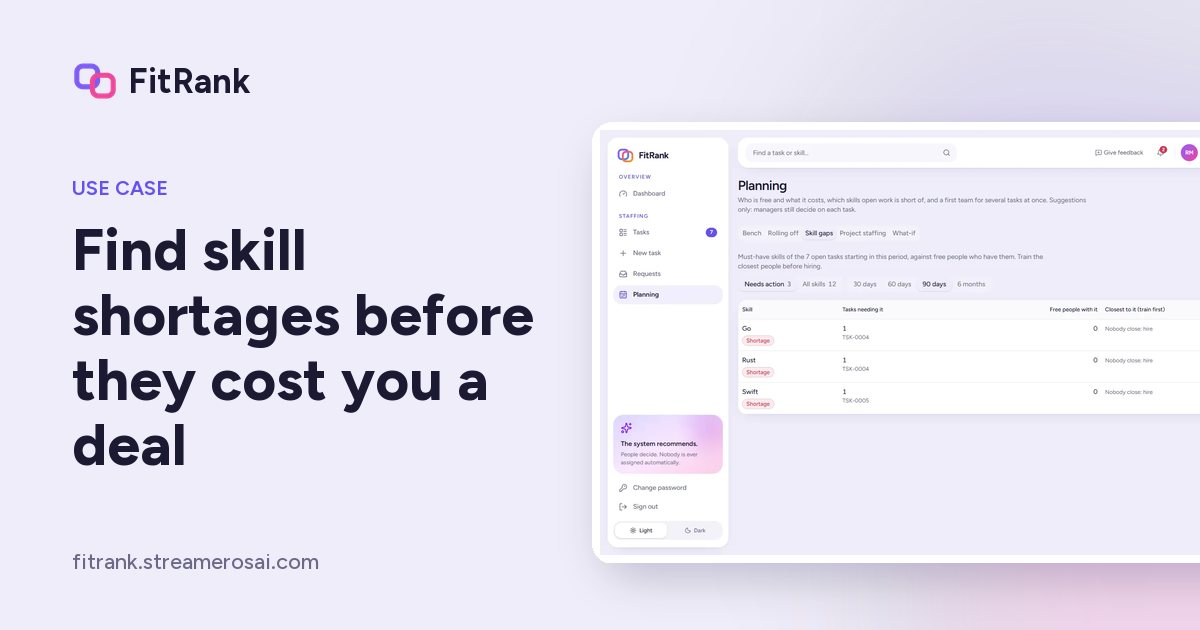
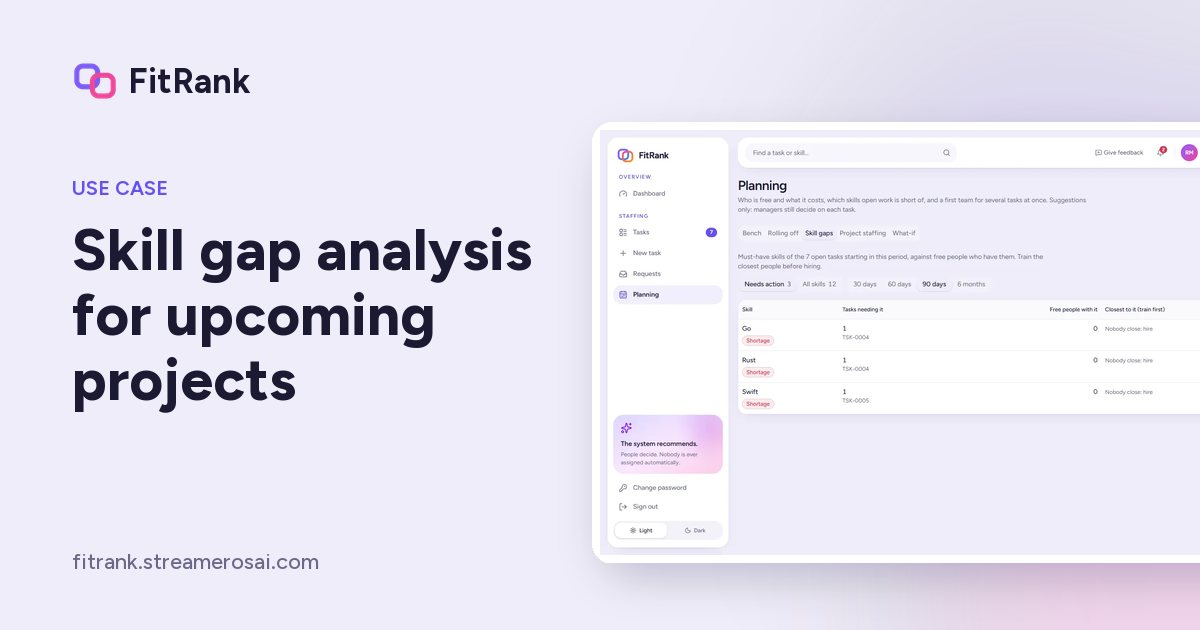
feat(use-cases): deep articles for staff-open-tasks, bench-management and skill-gap-planning

Changed region(s): [[0.0617, 0.3619, 0.4625, 0.754]]

diff --git a/src/lib/usecase-articles-a.ts b/src/lib/usecase-articles-a.ts
@@ -1,0 +1,176 @@
+import type { Block } from "@/lib/blog";
+
+export const ARTICLES_A: Record<string, Block[]> = {
+  "staff-open-tasks": [
+    { type: "tldr", text: "To find the right person for an open task, write down what the task really needs (skills, level, dates, place), remove everyone who cannot take it for a plain reason such as leave or timing, then compare the rest on facts you can count before you rely on anyone's memory. FitRank does those three steps in code, adds a probability for each judgement, and leaves the choice with the manager." },
+    { type: "h2", text: "Who has this problem, and why it keeps happening" },
+    { type: "p", text: "Any services team that staffs people onto client work meets it every week: a project needs a data engineer from the first of next month, and someone has to decide who. In a team of forty that decision is made from memory. In a team of four hundred it is made from a spreadsheet that was right the last time anyone updated it." },
+    { type: "p", text: "The failure is rarely a bad decision. It is a missing candidate. The person who would have been ideal was on a project that ended last week, or listed a skill under a different name, or sits in another business unit, and the manager never thought of them. The second failure is that nobody can explain the choice later. When a client asks why one person was proposed and not another, the answer is 'it seemed right'." },
+    { type: "h2", text: "An illustrative example: one task, five people" },
+    { type: "p", text: "This example is made up to show the method. The people, dates and numbers are invented and belong to no customer." },
+    { type: "p", text: "A manager needs a data engineer for a banking client, with Azure Data Factory as the main must-have skill, starting on 3 November for about four months. Five people come to mind quickly. Two of them are on a project that ends on 14 November, so they are not free in time. One is on approved leave for the first fortnight. One has the skill but is based in a location the client does not allow for this work. That leaves one person, and the manager is about to pick her by default." },
+    { type: "p", text: "Done properly, the first step is to take those four people off the list with a reason written next to each name, so that nobody is dropped by accident. The second step is to look at everyone else the manager did not think of. Three more people are free in time and have some of the skills. Now there are four real options, and the question changes from 'who do I know' to 'who fits best, and how sure are we'." },
+    { type: "h2", text: "How to do it by hand" },
+    { type: "ol", items: [
+      "Write the task as fixed fields, not a paragraph: role, must-have skills, nice-to-have skills, level, start date, length, allocation and location limits. If you cannot fill a field, that is the question to ask the requester before you search.",
+      "Cut the pool with rules that have yes or no answers: free from the start date, not on leave, allowed in the location, inside the cost band. Keep a note of who was cut and why.",
+      "For the people left, count facts. How many of the must-haves do they cover? How many years on the main skill, and when did they last use it? Have they worked in this client's domain? Counting beats impressions because two managers will count the same way.",
+      "Only then use judgement: is this person at the right level, and what is the risk that the delivery goes badly? Write the reason in a sentence.",
+      "Make the call and record it with its reason, even if the reason is short. The record is what lets you improve next time.",
+    ] },
+    { type: "h2", text: "How FitRank handles each step" },
+    { type: "p", text: "FitRank follows the same order, and it keeps the parts that can be calculated separate from the parts that need judgement." },
+    { type: "ul", items: [
+      "Intake. You type the task the way you would say it and FitRank fills in the fields. You confirm them in a preview before the task exists. See [plain-language task intake](/features/task-intake/).",
+      "Rules in code. Availability, leave, location, working-hours overlap, cost band and clearance are checked by code. A person who fails is not given a low score; they go to the excluded list with the rule they failed, so the manager can see who was left out and why.",
+      "Facts in code. Coverage of must-have and nice-to-have skills, level gap, experience against the minimum, domain projects and skill recency are calculated exactly, and a person's resume-backed skills are marked apart from claimed ones.",
+      "Five typed judgements. For each remaining person, the in-house model answers skill match, level fit, domain relevance, delivery risk and overall fit. Each answer is a probability for every option from a fixed list, never free text.",
+      "Checks and bands. Code compares the answers with the facts. A contradiction, thin data or an unsure model caps the person at Review. Your own cut-offs place everyone in Shortlist, Review or Hidden.",
+      "A person decides. The manager accepts or rejects with a reason (skill gap, level, domain or timing). Nothing is ever assigned automatically. See [explained matching and shortlists](/features/explainable-matching/).",
+    ] },
+    { type: "p", text: "A run scores everyone in a median of 0.94 seconds on an ordinary laptop CPU in the team's own benchmark, and it happens in the background, so the manager can carry on with something else while it runs." },
+    { type: "h2", text: "A checklist you can use without any software" },
+    { type: "ul", items: [
+      "Is every field of the task written down and agreed with whoever asked for it?",
+      "Did you list who was ruled out and the one-line reason for each?",
+      "Did you look beyond the people you already know, including people finishing a project in the next month?",
+      "Are your comparisons based on counts (skills covered, years, last used) rather than on who you trust?",
+      "Did you check how recent the main skill is? A skill last used three years ago is not the same as one used last quarter.",
+      "Did you write down why you chose the person, in a sentence, before telling anyone?",
+      "Did you ask yourself what would make this pick fail, and who is the second choice?",
+    ] },
+    { type: "h2", text: "Common mistakes" },
+    { type: "ul", items: [
+      "Starting from the person you know and working backwards to justify them.",
+      "Treating a skill list as proof. A profile that has not been touched in a year says what someone could do then, not now.",
+      "Mixing planning reasons with fit. 'He was free' is why someone was available, not why they were right. Keep the two apart or the record teaches you nothing.",
+      "Dropping people silently. If an exclusion is not written down, nobody can challenge it, and good candidates stay missing.",
+      "Choosing on the score alone. A probability is a prompt to look, not a verdict. A person at 57 per cent is a person to check, not to ignore.",
+    ] },
+    { type: "h2", text: "When FitRank is not the right tool" },
+    { type: "p", text: "It needs profiles to work from. If your people data is mostly empty or years old, the ranking will be only as good as that data, and the first job is cleaning it, which [employee records and CSV import](/features/people-data/) help with. It is built for matching named people to tasks, so it is not a shift rota: for who works which hour, the free [schedule generator](/tools/schedule-generator/) is a better fit, and [staffing versus scheduling](/blog/staffing-vs-scheduling/) explains the difference." },
+    { type: "p", text: "It also will not take the decision from you, by design. If you want a tool that assigns people automatically without anyone approving, FitRank is the wrong choice. And if you staff three tasks a year, a spreadsheet and the checklist above are enough." },
+    { type: "h2", text: "Questions people ask" },
+    { type: "faq", items: [
+      { q: "How is this different from searching a skills spreadsheet?", a: "A filter returns everyone who has a keyword. FitRank first removes people who cannot take the task for a recorded reason, then compares the rest on counted facts and five probability answers, and tells you who was left out and why." },
+      { q: "Can the model put someone on the shortlist who is on leave?", a: "No. Rules run first and in code. Only people who pass every rule are scored, and the model cannot override a rule." },
+      { q: "What if the model is unsure about someone?", a: "They are capped at Review rather than Shortlist, so a person looks at them. Unsure answers are never turned into confident ones." },
+      { q: "Does FitRank learn from my team's choices?", a: "Accept and reject decisions are recorded with a reason and used as training examples. A new scorer is trained overnight but only used after an admin switches it on. See [decisions, outcomes and learning](/features/learning-loop/)." },
+      { q: "What if nobody inside fits?", a: "Send a hiring request to HR from the task. The [hiring pipeline use case](/use-cases/hr-candidate-pipeline/) shows how that hand-off works." },
+    ] },
+  ],
+
+  "bench-management": [
+    { type: "tldr", text: "To reduce bench time, review the bench every week with a fixed window (free now, in 30, 60 and 90 days), price each idle week from your rate card, and pair every person with the open work they could take before they are idle. FitRank's bench view builds that list for you; the decision to hold, move or train someone stays with a manager." },
+    { type: "h2", text: "What bench time is, and who pays for it" },
+    { type: "p", text: "In an IT services company the bench is the group of people who are employed but not currently billed to a client. Some bench is healthy: people between projects, people on a planned course, people held for a deal that is about to start. The problem is the unplanned part, the weeks someone sits idle because nobody connected them to the next piece of work in time." },
+    { type: "p", text: "Delivery heads and resource management offices carry this, but the cost lands on the whole business, because the salary cost of an idle person has no revenue against it. For the basic definition and the roles involved, read [bench management: meaning, roles and real cost](/blog/bench-management-cost/). This page is about the weekly routine that keeps the bench short." },
+    { type: "h2", text: "An illustrative example: a Monday review" },
+    { type: "p", text: "The names and figures below are invented to show the routine. They are not from any company." },
+    { type: "p", text: "On a Monday, a delivery head opens the bench list. Six people are either free now or free within 60 days. For each one she wants three things: the date they become free, what each idle week costs at the company's rate card, and a task they could move to. Two people have an open task that fits. One person is free in 45 days and the best open task needs a skill she is one course short of. Two people have nothing open that fits, but both are due to roll off a project in three weeks." },
+    { type: "p", text: "She makes four decisions in ten minutes. She asks the manager of the open task to look at the two matches this week. She books the course for the person who is one skill short, so she is ready on the free date. She holds one of the two roll-offs for a deal that is in negotiation, and she tells the recruiter that the second person is available to other teams from the free date. None of this needs a meeting. It needs the right list on a Monday." },
+    { type: "h2", text: "How to run a bench review without software" },
+    { type: "ol", items: [
+      "Fix the windows: free now, within 30 days, within 60, within 90. A person free in 80 days is a plan, not a problem, but only if you see them 80 days ahead.",
+      "Add the free-from date for everyone coming off a project. The end date of the current allocation is the most useful field in the whole sheet.",
+      "Price the idle week. Use a rate for each cost band, not salaries, so the number can be shared without exposing anyone's pay.",
+      "For each person, name up to three open tasks they could take. If you cannot name one, that itself is information: it points to a skill gap or a demand gap.",
+      "Decide one action per person: move, hold for a known task, upskill, or release to other teams.",
+      "Write the date you will look at the person again.",
+    ] },
+    { type: "h2", text: "How FitRank handles it" },
+    { type: "ul", items: [
+      "The bench view lists who is free now or in 30, 60 or 90 days, with each person's free date and the idle cost per week worked out from your rate card. Salaries are never stored, only the cost band. See [bench and roll-offs](/features/bench-management/).",
+      "Each person carries up to three open tasks they could take, taken from the latest matching runs rather than guessed, so the list uses the same rules and facts as any other match.",
+      "A rolling-off view shows who leaves a project soon, the task they could move to and the one skill they are short of. That is the early warning, weeks before the idle time starts.",
+      "The staffing dashboard adds the bigger picture: bench idle cost for the next 12 months worked out day by day if nothing new is booked, including the part held by people who fit an open task, which is the part you can still avoid. It can be downloaded as CSV. See the [staffing dashboard](/features/staffing-dashboard/).",
+      "From the list you can hold someone for a known task or plan upskilling. The view suggests; it does not assign anyone.",
+    ] },
+    { type: "p", text: "The dashboard's idle-cost chart is not a forecast of what will happen. It shows what idle time would cost if nothing new were booked, which is the number you are trying to bring down." },
+    { type: "h2", text: "A checklist for a weekly bench review" },
+    { type: "ul", items: [
+      "Everyone with a free-from date inside 90 days is on the list.",
+      "Each person has a priced idle week and a named next task, or a note on why there is none.",
+      "Anyone idle for more than a few weeks has a written reason and an owner.",
+      "Roll-offs are reviewed three to six weeks before the end date, not on it.",
+      "Skills on the profile were confirmed in the last six months.",
+      "Holds are time-limited. A person 'held' for a deal that has gone quiet is bench in disguise.",
+    ] },
+    { type: "h2", text: "Common mistakes" },
+    { type: "ul", items: [
+      "Reporting the bench without destinations. A list of free people tells you the size of the problem, not what to do about it.",
+      "Looking only at people free today. By the time someone is idle, the cost is already paid.",
+      "Holding people for deals indefinitely. Put an end date on every hold.",
+      "Letting profiles go stale, so the match suggestions come from skills nobody has used for years. The [data-health view](/features/people-data/) shows which profiles are due.",
+      "Treating the bench as a failure of the people on it. It is nearly always a visibility problem.",
+    ] },
+    { type: "h2", text: "When FitRank is not the right tool" },
+    { type: "p", text: "If the bench is two or three people, a shared sheet and a weekly chat is enough, and a tool adds ceremony. If your problem is that there is no work at all, no matching will fix demand: the bench view helps you use the work you have, not create it. It prices idle time from a rate card you provide, so it cannot tell you the true cost of a person; it gives a consistent estimate. And it does not replace the people conversation around a roll-off." },
+    { type: "h2", text: "Questions people ask" },
+    { type: "faq", items: [
+      { q: "Where does the idle cost number come from?", a: "From the weekly cost you set for each cost band in your rate card, for the time a person is free. FitRank does not store salaries." },
+      { q: "Does the bench view assign someone to a task?", a: "No. It shows the tasks a person could take. A manager still runs matching on the task and decides." },
+      { q: "How early does the roll-off warning appear?", a: "It uses each person's current project end date, so you see people coming off projects as far ahead as the end dates you have recorded." },
+      { q: "Can we export the idle-cost picture?", a: "Yes, the 12-month bench idle cost on the dashboard can be downloaded as CSV." },
+      { q: "How do I know a person's skills are current?", a: "Each skill carries a level, years and when it was last used, and HR can confirm profiles against resumes. The [skill matrix template](/tools/employee-skill-matrix-template/) shows the format if you want to start in Excel." },
+    ] },
+  ],
+
+  "skill-gap-planning": [
+    { type: "tldr", text: "To find a skill gap before it blocks a project, list the must-have skills of every upcoming task, count the people who will actually be free with each skill in the window you care about, and mark each skill as covered, tight or short. FitRank does this against live tasks and profiles, and shows who is closest to each gap so you can train before you hire." },
+    { type: "h2", text: "The problem: gaps are found when the task is already late" },
+    { type: "p", text: "Practice leads and capability planners are asked the same question every quarter: what should we train, and what should we hire? The usual answer is built from last year's projects and a feeling about the market. The gaps that matter are specific, such as 'we have two people who can do Databricks at senior level and four tasks asking for it in the next ninety days', and they only show up when the fifth task cannot be staffed." },
+    { type: "p", text: "By then the options are poor. Training takes weeks, hiring takes longer, and a rushed hire for a skill nobody inside could vouch for is the riskiest staffing decision there is." },
+    { type: "h2", text: "An illustrative example: one skill, three views" },
+    { type: "p", text: "Everything below is invented to show the logic and is not data from any company." },
+    { type: "p", text: "Suppose six upcoming tasks list a streaming data platform as a must-have. A headcount view says the company has eleven people with that skill on their profile, so there is no problem. A second view removes the people who are fully allocated until the end of the quarter, and four remain. A third view removes those whose last use of the skill was more than two years ago, and one person remains for six tasks. The same skill is plentiful, tight or short depending on how honestly you ask the question." },
+    { type: "p", text: "The useful second step is to look at who is closest to the skill: two people use a neighbouring tool every day and are a short course away. That turns a shortage into a training plan with names and dates, which is the output a practice lead needs." },
+    { type: "h2", text: "A method you can run in a spreadsheet" },
+    { type: "ol", items: [
+      "Pick a window: 30, 60 or 90 days, or six months. A gap only matters if it falls inside the time you can still act.",
+      "List every must-have skill across the tasks starting in that window. Ignore nice-to-haves for now; they hide the real problem.",
+      "For each skill, count the people who have it at the level the task needs and will be free before the task starts.",
+      "Compare that count with the number of tasks that need the skill. Mark it covered, tight or short.",
+      "For every short skill, list the people who have a related skill or the skill at a lower level. These are your training candidates.",
+      "Decide per skill: train the closest person, hire, or change the task so it does not depend on one scarce skill.",
+    ] },
+    { type: "h2", text: "How FitRank handles it" },
+    { type: "ul", items: [
+      "It reads the must-have skills of all upcoming tasks, so nobody has to maintain a separate demand list.",
+      "Each skill is marked shortage, tight or covered against the people who will be free in time. A shortage means a must-have skill that upcoming tasks need and that nobody free in the window has at the required level.",
+      "For every gap it lists free people who already have the skill and the person closest to it, which is the training candidate.",
+      "The window can be 30, 60 or 90 days or six months. See [skill gap analysis](/features/skill-gap-analysis/).",
+      "The skills it counts are the ones on each person's profile, with level, years and when each was last used. HR can check profiles against resumes, and the data-health view shows which profiles are missing or due for review. See [employee records and CSV import](/features/people-data/).",
+    ] },
+    { type: "p", text: "Because the result depends on profile quality, the practical first step is to confirm profiles at least every six months. A gap report built on stale skills reports the past." },
+    { type: "h2", text: "A checklist for a quarterly skills review" },
+    { type: "ul", items: [
+      "Demand comes from real upcoming tasks, not from last year's mix.",
+      "Supply counts only people who are free before the task starts.",
+      "Level and recency are part of the count, not just the skill name.",
+      "Every short skill has a named training candidate or a hiring decision with a date.",
+      "Related skills are mapped, so 'close' has a definition.",
+      "Someone owns profile accuracy, with a six-month review.",
+    ] },
+    { type: "p", text: "If you are starting from nothing, the free [skill matrix template](/tools/employee-skill-matrix-template/) gives you the layout, and [employee skill matrix: format, meaning and limits](/blog/employee-skill-matrix/) explains where a spreadsheet matrix stops being enough." },
+    { type: "h2", text: "Common mistakes" },
+    { type: "ul", items: [
+      "Counting heads instead of free heads. A skill held by someone fully booked for the quarter is not supply.",
+      "Treating all levels as equal. A junior with the skill does not cover a task that needs a senior.",
+      "Ignoring recency. Skills fade, and a profile line from four years ago is a hope, not a fact.",
+      "Planning for nice-to-haves. They hide what actually blocks a start date.",
+      "Training without a destination. A course is only worth the time if a named task will use it.",
+      "Hiring for a gap that is really a matching problem. Sometimes the person exists and nobody looked. See [skills-based resource matching](/blog/skills-based-resource-matching/).",
+    ] },
+    { type: "h2", text: "When FitRank is not the right tool" },
+    { type: "p", text: "It measures demand from tasks that exist in the system, so it cannot see deals that have not been entered yet, though a [what-if check](/use-cases/pre-sales-staffing/) can cover a prospective one. It is not a long-range workforce planner: it answers what is short in the next few months, not what your headcount should be in three years. It does not run training or track course completion. And if your profiles are mostly blank, fix the data first, because the gap view will show a shortage of everything." },
+    { type: "h2", text: "Questions people ask" },
+    { type: "faq", items: [
+      { q: "What counts as a shortage?", a: "A must-have skill that upcoming tasks need and that nobody free in the chosen window has at the required level." },
+      { q: "Which skills does it count?", a: "The ones on each person's profile, with level, years and when each was last used." },
+      { q: "Can it tell me who to train?", a: "For every gap it shows the person closest to the skill, so you can train before you hire. The choice is yours." },
+      { q: "Does it look at nice-to-have skills?", a: "The gap view is built on must-have skills, since those are the ones that stop a task from starting." },
+      { q: "How do I keep profiles accurate?", a: "Use the data-health view to see missing or stale profiles, confirm profiles every six months, and let HR check them against resumes." },
+    ] },
+  ],
+};

diff --git a/src/lib/content.ts b/src/lib/content.ts
@@ -103,9 +103,9 @@ export type UseCase = {
 export const USE_CASES: UseCase[] = [
   {
     slug: "staff-open-tasks",
-    title: "Staff an open task with the right person",
+    title: "How to find the right person for an open task",
     who: "Resource managers in IT services and consulting",
-    description: "Rank everyone who can actually take a task, with a probability and a cited reason for each person, and keep the final call with the manager.",
+    description: "A step-by-step way to staff an open task: write it as fields, cut the pool by rules, compare on counted facts, then decide. With a worked example.",
     problem: "Matching usually means a spreadsheet, a few phone calls and whoever the manager remembers. Good people on the bench get missed, and nobody can say afterwards why someone was picked.",
     how: [
       "Describe the task in plain words and confirm the skills, level, dates and location FitRank reads from it.",
@@ -119,9 +119,9 @@ export const USE_CASES: UseCase[] = [
   },
   {
     slug: "bench-management",
-    title: "Cut bench time and idle cost",
+    title: "How to reduce bench time in a services team",
     who: "Delivery heads and resource management offices",
-    description: "See who is free now and in the next 30, 60 and 90 days, what idle time costs each week, and which open tasks each person could take.",
+    description: "A weekly bench review that works: windows, a priced idle week, a named next task for every person, and one action each. With a worked example.",
     problem: "Bench reports show who is free, not where they could go. By the time someone notices a match, the person has been idle for weeks.",
     how: [
       "The bench view lists who is free now and soon, with the weekly idle cost from your rate card.",
@@ -134,9 +134,9 @@ export const USE_CASES: UseCase[] = [
   },
   {
     slug: "skill-gap-planning",
-    title: "Find skill shortages before they cost you a deal",
+    title: "Skill gap analysis for upcoming projects",
     who: "Practice leads and capability planners",
-    description: "Mark every must-have skill across upcoming tasks as shortage, tight or covered, and see who is closest to filling each gap.",
+    description: "Find skill shortages before a task stalls: list must-haves, count who is free in time, mark covered, tight or short, and pick who to train.",
     problem: "Skill gaps surface when a task can't be staffed, which is too late to train anyone.",
     how: [
       "FitRank reads the must-have skills of all upcoming tasks.",

diff --git a/src/app/use-cases/[slug]/page.tsx b/src/app/use-cases/[slug]/page.tsx
@@ -3,10 +3,12 @@ import { notFound } from "next/navigation";
 import JsonLd from "@/components/JsonLd";
 import ProductShot from "@/components/ProductShot";
 import { Breadcrumbs, Container, CtaBand, FeatureCard, PrimaryLink, SecondaryLink } from "@/components/Blocks";
+import { Blocks } from "@/components/Prose";
 import { USE_CASES } from "@/lib/content";
+import { UC_ARTICLES } from "@/lib/usecase-articles";
 import { featurePage } from "@/lib/features";
 import { SHOTS } from "@/lib/shots";
-import { PRODUCT_ID, breadcrumbJsonLd, canonicalUrl, pageMetadata, personRef, webPageJsonLd } from "@/lib/seo";
+import { PRODUCT_ID, breadcrumbJsonLd, canonicalUrl, faqPageJsonLd, pageMetadata, personRef, webPageJsonLd } from "@/lib/seo";
 
 export const dynamicParams = false;
 
@@ -25,6 +27,8 @@ export default function UseCasePage({ params }: { params: { slug: string } }) {
   if (!u) notFound();
   const others = USE_CASES.filter((x) => x.slug !== u.slug).slice(0, 4);
   const shot = SHOTS[u.shot];
+  const article = UC_ARTICLES[u.slug];
+  const faq = article?.flatMap((b) => (b.type === "faq" ? b.items : [])) ?? [];
   const capabilities = u.features.map((slug) => featurePage(slug)!);
 
   const howTo = {
@@ -43,6 +47,7 @@ export default function UseCasePage({ params }: { params: { slug: string } }) {
       <JsonLd
         data={[
           howTo,
+          ...(faq.length ? [faqPageJsonLd(faq)] : []),
           webPageJsonLd({ path: `use-cases/${u.slug}`, name: u.title, description: u.description, shots: [shot] }),
           breadcrumbJsonLd([{ name: "Use cases", path: "use-cases" }, { name: u.title, path: `use-cases/${u.slug}` }]),
         ]}
@@ -63,6 +68,11 @@ export default function UseCasePage({ params }: { params: { slug: string } }) {
         <ProductShot shot={shot} priority />
       </Container>
 
+      {article ? (
+        <Container className="prose-fit pb-8">
+          <Blocks blocks={article} />
+        </Container>
+      ) : (
       <Container className="grid gap-14 py-12 lg:grid-cols-[1fr_1.4fr]">
         <section aria-labelledby="problem">
           <h2 id="problem" className="font-display text-2xl font-semibold text-ink">The problem</h2>
@@ -82,6 +92,7 @@ export default function UseCasePage({ params }: { params: { slug: string } }) {
           </ol>
         </section>
       </Container>
+      )}
 
       <Container className="pt-8">
         <h2 className="font-display text-2xl font-semibold text-ink">The features that do the work</h2>

diff --git a/src/components/Prose.tsx b/src/components/Prose.tsx
@@ -1,0 +1,55 @@
+import Link from "next/link";
+import type { ReactNode } from "react";
+import type { Block } from "@/lib/blog";
+
+/** Text with [label](href) links: internal links stay in the site, outside ones open a new tab. */
+export function withLinks(text: string): ReactNode[] {
+  const out: ReactNode[] = [];
+  const re = /\[([^\]]+)\]\(([^)]+)\)/g;
+  let last = 0;
+  for (const m of text.matchAll(re)) {
+    out.push(text.slice(last, m.index));
+    const [, label, href] = m;
+    out.push(
+      href.startsWith("/") ? (
+        <Link key={m.index} href={href}>{label}</Link>
+      ) : (
+        <a key={m.index} href={href} target="_blank" rel="noopener">{label}</a>
+      ),
+    );
+    last = (m.index ?? 0) + m[0].length;
+  }
+  out.push(text.slice(last));
+  return out;
+}
+
+/** Renders the same block types the blog uses, inside a .prose-fit container. */
+export function Blocks({ blocks }: { blocks: Block[] }) {
+  return (
+    <>
+      {blocks.map((b, i) => {
+        if (b.type === "h2") return <h2 key={i}>{b.text}</h2>;
+        if (b.type === "ul") return <ul key={i}>{b.items.map((t) => <li key={t}>{withLinks(t)}</li>)}</ul>;
+        if (b.type === "ol") return <ol key={i}>{b.items.map((t) => <li key={t}>{withLinks(t)}</li>)}</ol>;
+        if (b.type === "tldr")
+          return (
+            <p key={i} className="rounded-lg border border-line bg-white p-5 leading-relaxed text-ink">
+              <strong>Short answer.</strong> {withLinks(b.text)}
+            </p>
+          );
+        if (b.type === "faq")
+          return (
+            <div key={i}>
+              {b.items.map((f) => (
+                <div key={f.q}>
+                  <h3>{f.q}</h3>
+                  <p>{withLinks(f.a)}</p>
+                </div>
+              ))}
+            </div>
+          );
+        return <p key={i}>{withLinks(b.text)}</p>;
+      })}
+    </>
+  );
+}

diff --git a/src/lib/usecase-articles.ts b/src/lib/usecase-articles.ts
@@ -1,0 +1,9 @@
+// Long-form articles for the /use-cases/<slug>/ pages. Same block model as the blog.
+// Everything product-related is grounded in lib/content.ts and lib/features.ts; worked examples are
+// labelled illustrative and use made-up people and numbers.
+import type { Block } from "@/lib/blog";
+import { ARTICLES_A } from "@/lib/usecase-articles-a";
+
+export const UC_ARTICLES: Record<string, Block[]> = {
+  ...ARTICLES_A,
+};
